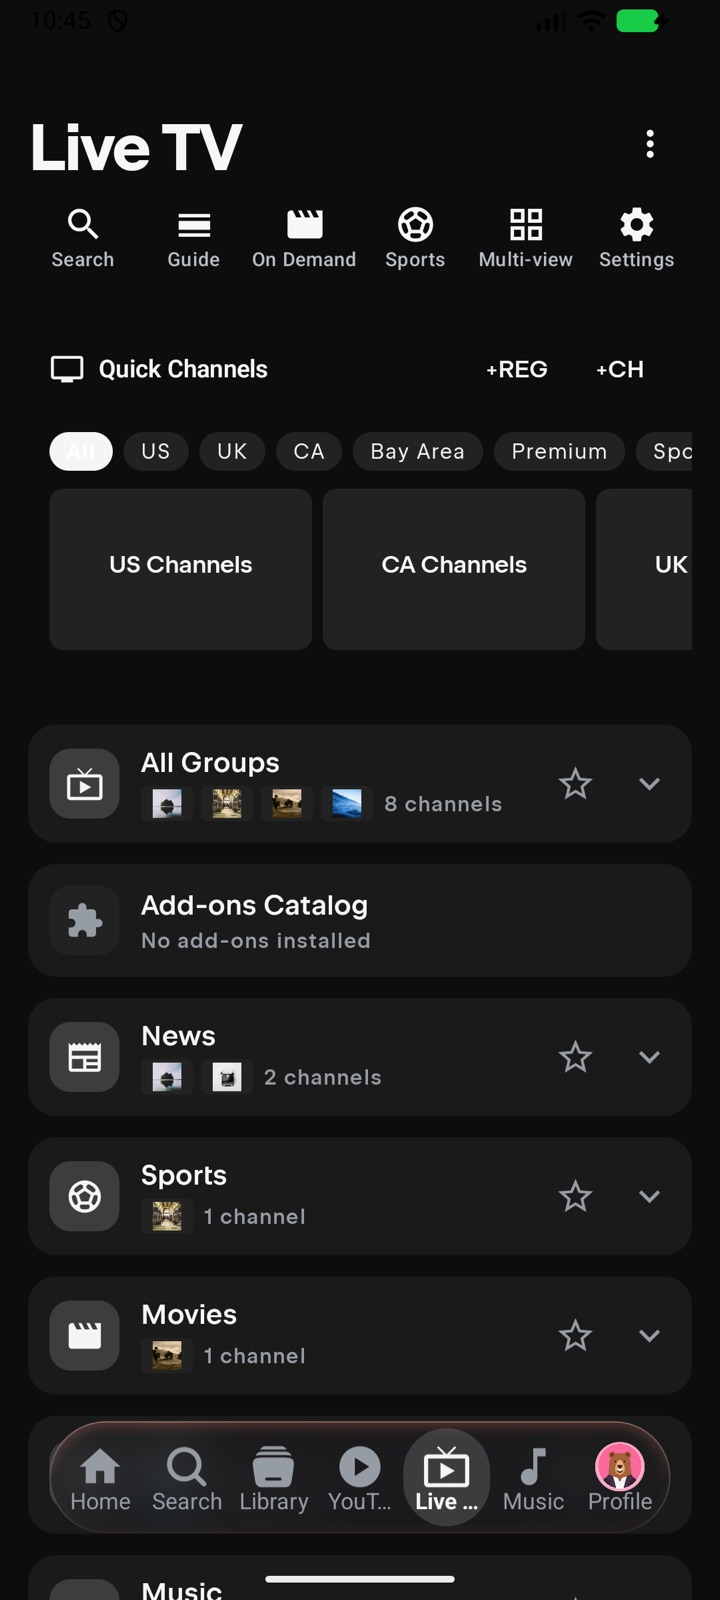
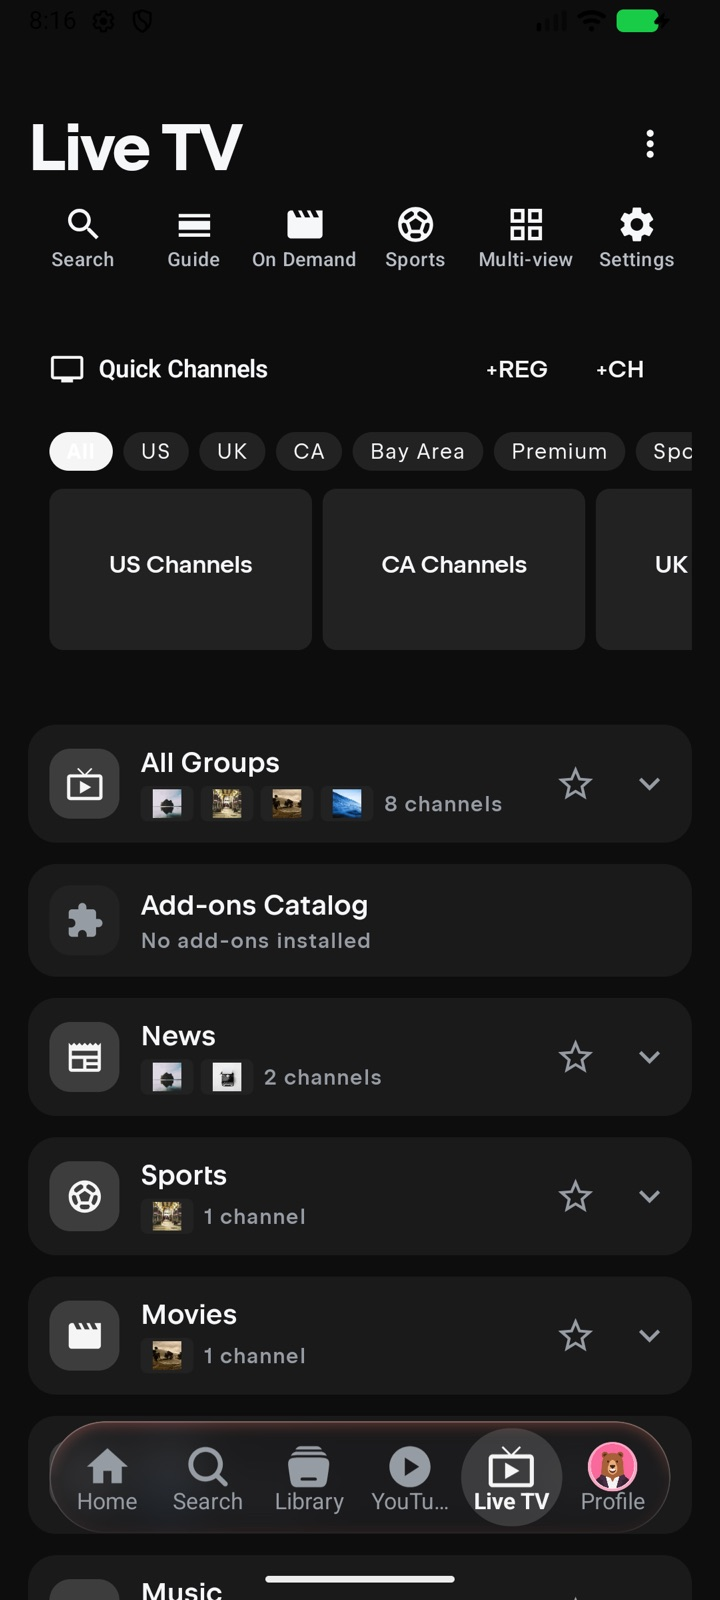
docs: refresh screenshots and feature list for v0.7.0
Capture the updated navigation without the Music tab, add typo-tolerant search, Top 10/Because you watched, player chapters and startup steps to the README.

Changed region(s): [[0.2139, 0.875, 0.9167, 0.9688], [0.0917, 0.9062, 0.1833, 0.9688]]

diff --git a/README.md b/README.md
@@ -37,6 +37,9 @@
 - Favourites, hidden groups, channel reordering and custom channel logos.
 - Catch-up, reminders and recordings.
 - Quick Channels for fast switching without leaving the player.
+- Search that tolerates typos in channel names and On Demand titles.
+- Top 10 and “Because you watched” rows on Home when a matching catalog is available.
+- Catalogs marked as adult are hidden from Home by default.
 - Channels access for every Live TV source, including catch-up and recordings.
 - Multi-view for watching more than one channel at once.
 
@@ -52,6 +55,11 @@
 - Info, More Videos and Comments panels on the player.
 - Auto-play the next video when one finishes.
 - YouTube videos in Continue Watching.
+
+### 🎞 Player
+- Chapter markers, a chapter list and a Titles on/off toggle.
+- Startup progress steps while the app is loading.
+- Gesture controls, subtitles, in-app PiP and Multi-view.
 
 ### 🎬 Movies, series and more
 - On Demand with categories, search, sorting and quality tags.
